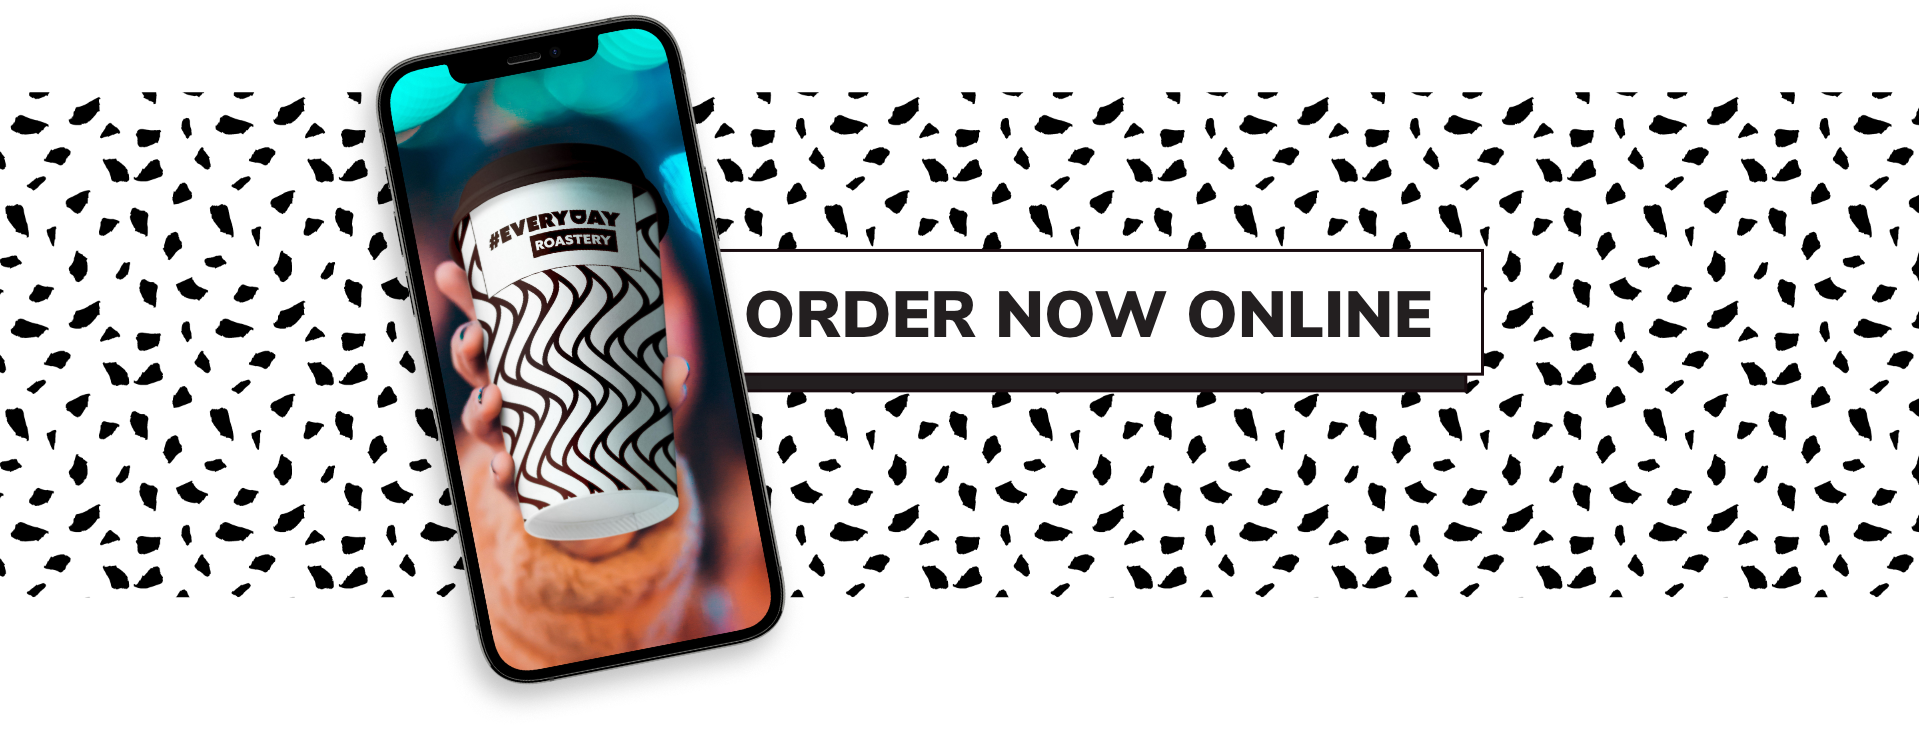
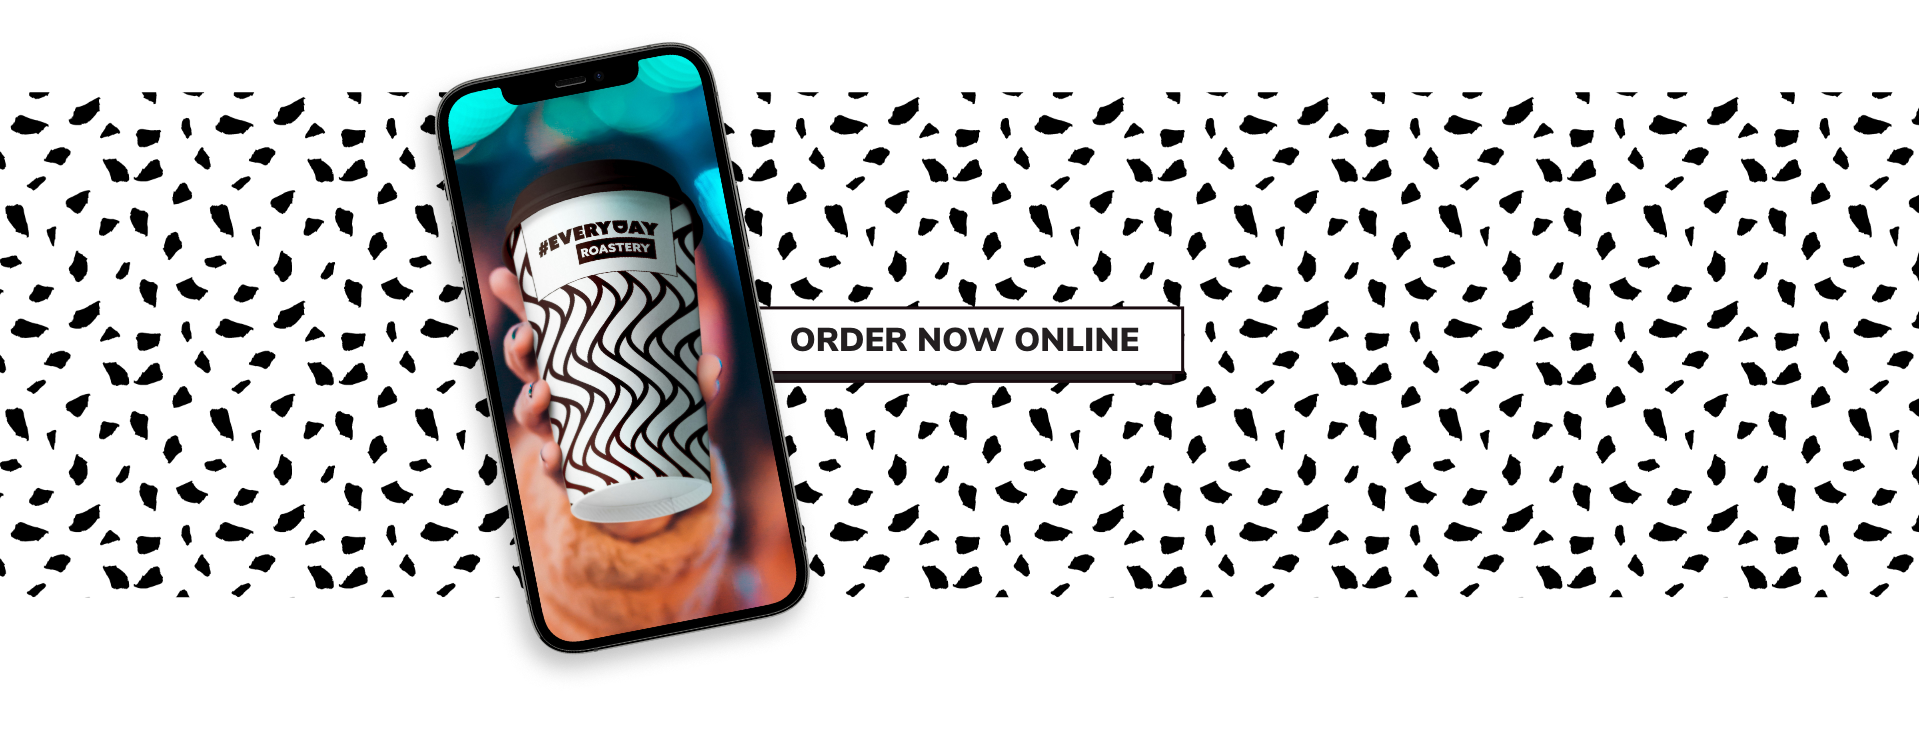
responsive main page

Changed region(s): [[0.1875, 0.0, 0.7812, 0.9545]]

diff --git a/src/components/ourStory.js b/src/components/ourStory.js
@@ -41,18 +41,18 @@ const OurStory = props => {
         background-size="contain"
         className="StoryBgContainer h-screen mt-40 "
       ></BackgroundImage> */}
-      <div className="bannerContainer relative">
-        <div className="topText absolute top-60 left-40">
-          <h1 className="uppercase font-extrabold">about everyday</h1>
-          <h1 className="uppercase font-extrabold pt-20">
-            <span className="text-6xl">we brew for you,</span> <br />
-            <span className="text-8xl">Everyday.</span>
+      <div className="bannerContainer relative ">
+        <div className="topText ml-4 sm:ml-20 lg:ml-0   -mb-32 mt-20 sm:mt-32 lg:mt-0 lg:absolute top-20 lg:top-60 left-0 lg:left-40">
+          <h1 className="uppercase font-extrabold text-3xl">about everyday</h1>
+          <h1 className="uppercase font-extrabold lg:pt-20">
+            <span className="text-lg lg:text-6xl">we brew for you,</span> <br />
+            <span className="text-xl lg:text-8xl">Everyday.</span>
           </h1>
         </div>
         <Img fluid={data.banner.childImageSharp.fluid} className="menu-pic" />
 
-        <div className="bottomText absolute right-40 bottom-40 w-2/6">
-          <p className="text-2xl">
+        <div className="bottomText lg:absolute right-0 lg:right-40 bottom-0 lg:bottom-40 w-full lg:w-2/6 my-10 lg:my-0 px-4 sm: px-16 lg:px-0">
+          <p className="text-md md:text-2xl">
             Great coffee that is our source of energy. However you coffee,{" "}
             <b>Everyday</b> baristas know how to brew; from iced vanilla
             frappuccino to double shot espresso. Delivered in no time,{" "}
@@ -71,7 +71,7 @@ const OurStory = props => {
         <Img fluid={data.steps.childImageSharp.fluid} className="menu-pic " />
         <OrderNow display={ 
           <div className="orderBtn text-white p-4 uppercase font-extrabold bg-black">
-          download app
+          order now!
           </div>
         }/>
         </div>

diff --git a/src/components/mainSlides.js b/src/components/mainSlides.js
@@ -41,33 +41,23 @@ const MainSlides = props => {
   const settings = {
     dots: true,
     infinite: true,
-   // fade: true,
+    // fade: true,
     speed: 0,
     slidesToShow: 1,
     slidesToScroll: 1,
-   autoplay: true,
+    // autoplay: true,
     autoplaySpeed: 4000,
-    // customPaging: i => (
-    //   <div
-    //     className="dot"
-    //     style={{
-    //       width: "14px",
-    //       height: "14px",
-    //       borderRadius: "50%",
-    //       border: "1px solid white",
-    //     }}
-    //   >
-    //     {/* {i + 1} */}
-    //   </div>
-    // ),
+    
   }
+
+  const textSize = "text-5xl sm:text-8xl"
   return (
     <section className={`mainSlidesContainer bg-black  ${nudge}`}>
-      <Slider {...settings} className=" h-2/3">
+      <Slider {...settings} className=" ">
         <Slide
           banner={1}
           text={
-            <h1 className="uppercase text-white text-8xl font-extrabold">
+            <h1 className={`${textSize} uppercase text-white  font-extrabold`}>
               Good <br /> coffee <br /> good <br /> morning
             </h1>
           }
@@ -76,8 +66,8 @@ const MainSlides = props => {
         <Slide
           banner={2}
           text={
-            <h1 className="uppercase text-white text-8xl font-extrabold">
-            quality <br /> coffee, <br /> everyday 
+            <h1 className={`${textSize} uppercase text-white  font-extrabold`}>
+              quality <br /> coffee, <br /> everyday
             </h1>
           }
         />
@@ -85,8 +75,8 @@ const MainSlides = props => {
         <Slide
           banner={3}
           text={
-            <h1 className="uppercase text-white text-8xl font-extrabold">
-              everyday <br /> treats in, <br /> a bit 
+            <h1 className={`${textSize} uppercase text-white  font-extrabold`}>
+              everyday <br /> treats in <br /> a tap
             </h1>
           }
         />

diff --git a/src/components/footer.js b/src/components/footer.js
@@ -25,7 +25,7 @@ const Footer = () => {
 
       logo: file(relativePath: { eq: "footer-logo.png" }) {
         childImageSharp {
-          fluid(quality: 90, maxWidth: 2000) {
+          fluid(quality: 90, maxWidth: 500) {
             ...GatsbyImageSharpFluid_withWebp
           }
         }
@@ -34,7 +34,7 @@ const Footer = () => {
   `)
 
   const bg = data.bg.childImageSharp.fluid
-  const logoDiv = "mx-4"
+  const logoDiv = " w-20 md:w-40 md:mx-4"
   return (
     <section className="footerContainer bg-black">
       <BackgroundImage
@@ -42,10 +42,10 @@ const Footer = () => {
         background-size="300px 100px"
         className="footerBgContainer "
       >
-        <h2 className="text-white uppercase font-extrabold text-xl mx-auto max-w-max pt-40">
-          Everyday, your way <br/> exlusively on
+        <h2 className="text-white text-center uppercase font-extrabold text-sm md:text-xl mx-auto max-w-max pt-10 md:pt-40">
+          Everyday, your way <br/> <br/> exlusively on
         </h2>
-        <ul className="flex max-w-max mx-auto px-80">
+        <ul className="flex w-full flex-wrap justify-center md:max-w-max mx-auto px-4 ">
           <li>
             <div className={logoDiv}>
               <img src={hungerstation} alt="logo" />
@@ -83,7 +83,7 @@ const Footer = () => {
           more caffeine? sign up and get 10% off on first order
         </h1> */}
         <div className="bottomLogo w-full flex justify-end ">
-        <Img fluid={data.logo.childImageSharp.fluid} className=" w-60 mr-20 mb-20 " />
+        <Img fluid={data.logo.childImageSharp.fluid} className=" w-20 md:w-40 lg:w-60 mr-2 md:mr-20 mb-4 md:mb-20 " />
         </div>
       <div></div>
       </BackgroundImage>

diff --git a/src/components/header.js b/src/components/header.js
@@ -12,14 +12,14 @@ const Header = () => {
   }, [])
   let position = scroll ? "sticky top-0" : "absolute"
   return (
-    <header className={`headerWrapper ${position} z-50 w-full py-4 px-10 ${scroll ? " bg-white" : ""}`}>
+    <header className={`headerWrapper ${position} z-50 w-full py-4 px-2 md:px-10 ${scroll ? " bg-white" : ""}`}>
     
       <nav className='nav flex justify-between items-center w-full' >
         <div className="left flex ">
-          <Link to="/"  className=" w-36 lg:w-48 mr-8">
+          <Link to="/"  className=" w-24 lg:w-48 mr-8">
             <img src={logo} alt="logo" />
           </Link>
-              <Link to="/story" className="text-black text-xl uppercase font-extrabold flex  items-center">
+              <Link to="/story" className={` ${scroll ? " text-black" : "text-white"} text-sm md:text-xl uppercase font-extrabold flex  items-center`}>
                <span className="my-auto">
                  Our Story
                 </span>
@@ -27,7 +27,7 @@ const Header = () => {
         </div>
         <div className="right">
         <OrderNow display={ 
-          <div className="orderBtn text-white text-xl p-4 uppercase font-extrabold bg-black ">
+          <div className="orderBtn text-white text-sm md:text-xl p-2 md:p-4 uppercase font-extrabold bg-black ">
           Order Now!
           </div>
         }/>

diff --git a/src/components/menu.js b/src/components/menu.js
@@ -56,6 +56,32 @@ const Menu = () => {
     slidesToScroll: 1,
      autoplay: true,
     autoplaySpeed: 3000,
+    responsive: [
+      {
+        breakpoint: 1024,
+        settings: {
+          slidesToShow: 3,
+          slidesToScroll: 3,
+          infinite: true,
+          dots: true
+        }
+      },
+      {
+        breakpoint: 600,
+        settings: {
+          slidesToShow: 2,
+          slidesToScroll: 2,
+          initialSlide: 2
+        }
+      },
+      {
+        breakpoint: 480,
+        settings: {
+          slidesToShow: 1,
+          slidesToScroll: 1
+        }
+      }
+    ]
   }
   return (
     <section className="menuContainer " id="menu">
@@ -115,6 +141,13 @@ const Menu = () => {
             buttonStyle="w-full p-2"
           />
         </Slider>
+        {/* <div className="max-w-max mx-auto my-10">
+        <OrderNow display={ 
+          <div className="orderBtn text-white text-sm sm:text-xl p-2 md:p-4 uppercase font-extrabold bg-black  ">
+          Order Now!
+          </div>
+        }/>
+        </div> */}
       </div>
     </section>
   )

diff --git a/src/components/slide.js b/src/components/slide.js
@@ -38,15 +38,15 @@ const Slide = props => {
   return (
     <BackgroundImage
       fluid={props.banner===1?banner1:props.banner===2?banner2:banner3}
-      background-size="cover"
-      className="bgContainer h-screen "
+      background-size="contain"
+      className="bgContainer h-screen  "
     >
-      <div className="textDiv pt-40 pl-40">
+      <div className="textDiv pt-32 sm:pt-40  pl-20 sm:pl-40">
         {props.text}
         <OrderNow
           display={
-            <div className="orderBtn text-white p-4 uppercase text-2xl font-extrabold bg-black">
-              download app
+            <div className="orderBtn text-white p-4 uppercase text-xl sm:text-2xl font-extrabold bg-black">
+              order now! 
             </div>
           }
         />

diff --git a/src/components/soMeBar.js b/src/components/soMeBar.js
@@ -5,7 +5,7 @@ const SoMeBar = () => {
 const logoDiv= "mx-2"
   return (
       <div className="soMeBar bg-black flex justify-between py-2">
-        <div className="icons flex pl-20">
+        <div className="icons flex md:pl-20">
         <div className={logoDiv}>
               <img src={ig} alt="logo" />
             </div>
@@ -14,7 +14,7 @@ const logoDiv= "mx-2"
             </div>
         </div>
         <div>
-        <h3 className="uppercase text-lg" style={{color: "#D8248D"}}> your coffee break, everyday</h3>
+        <h3 className="uppercase text-xs sm:text-lg" style={{color: "#D8248D"}}> your coffee break, everyday</h3>
         </div>
         <div></div>
       </div>
